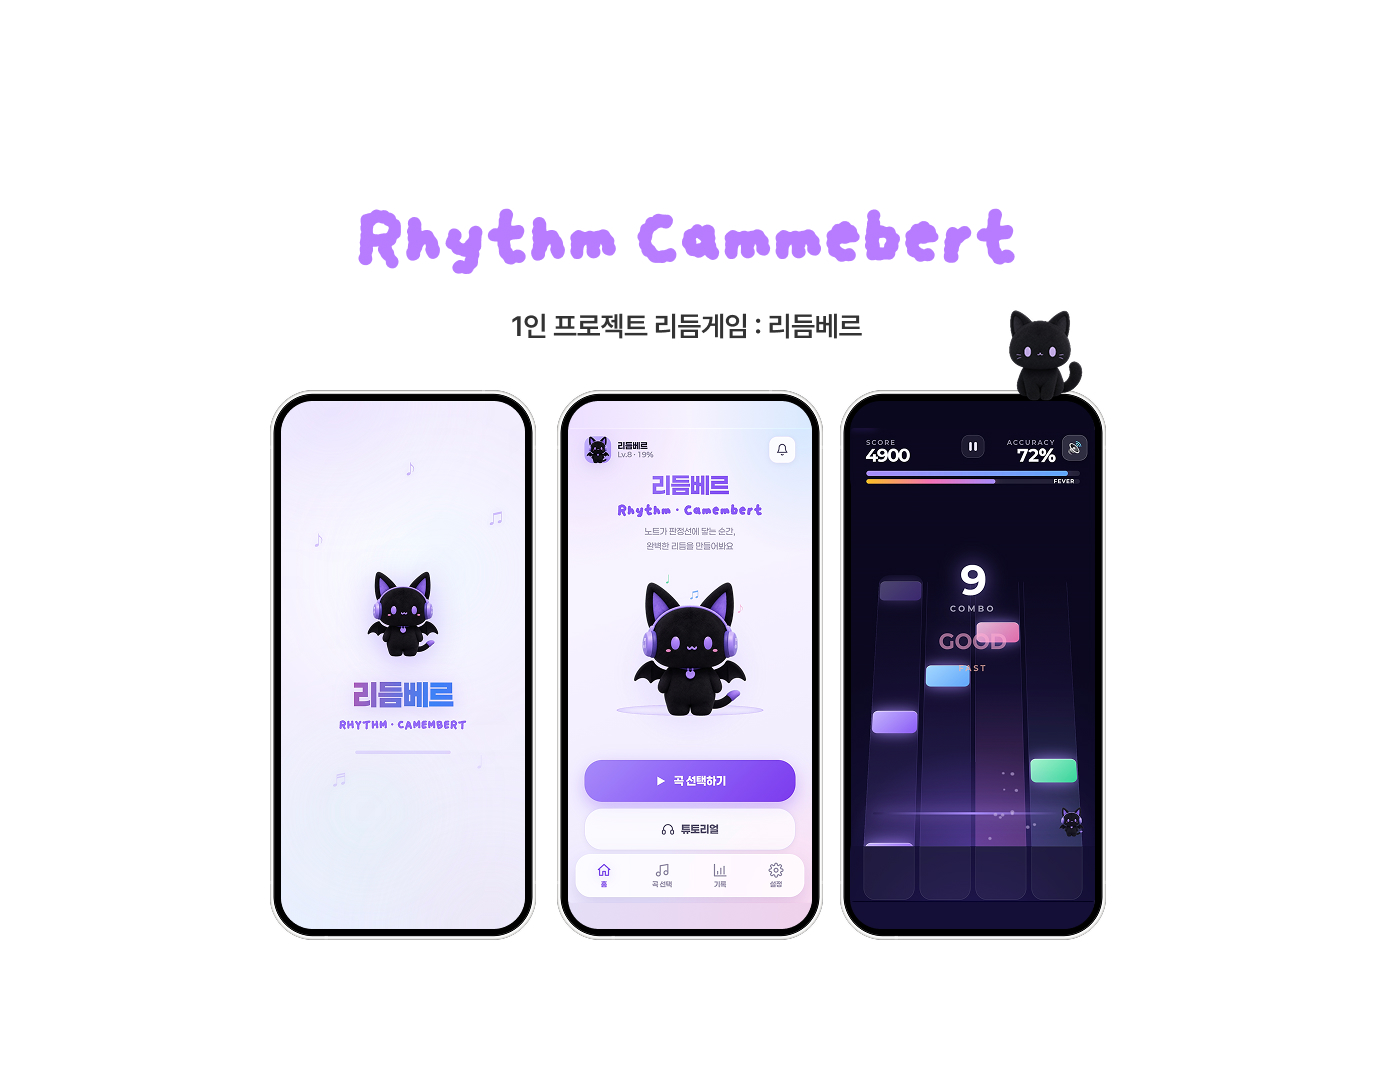
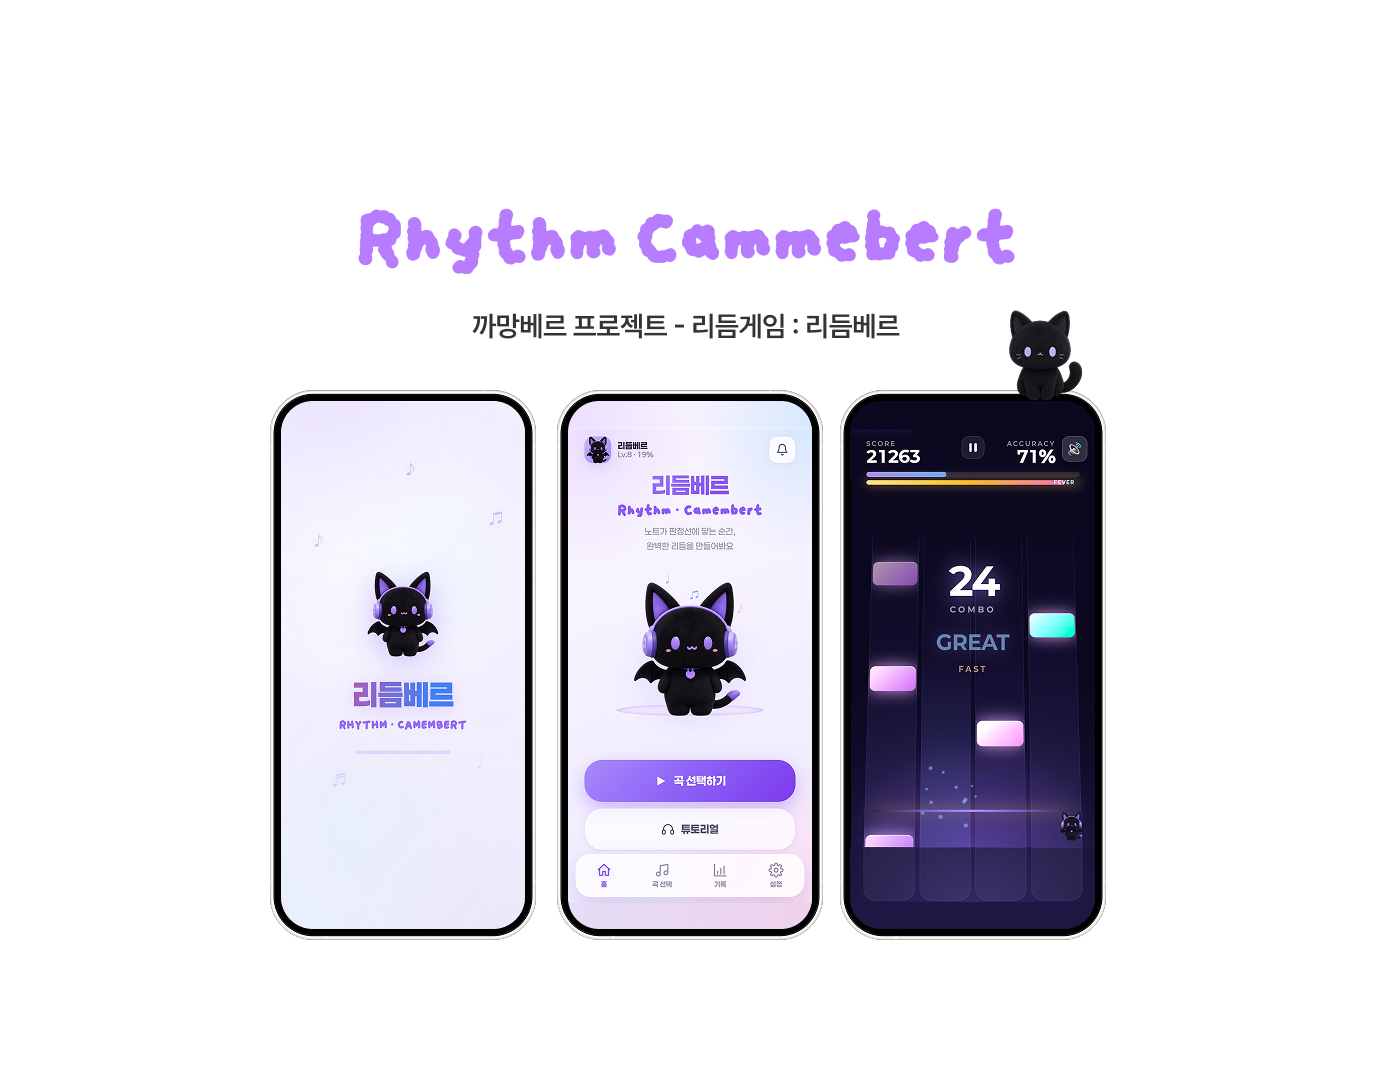
7.3 진실의 옥상 상세 정리(라이브 미리보기·소개·썸네일) 및 Tools 아이콘 보완
- 진실의 옥상: 커버 데모 라이브 미리보기, 포스터+프로젝트 소개 2단 배치, 그리드 썸네일 추가
- 리듬베르 Tools에 JavaScript 추가
- 마케팅 상세 Tools 텍스트 정리(빽다방: PowerPoint·Google Forms·Gather Town / 금산: PowerPoint·Google Forms)

diff --git a/index.html b/index.html
@@ -202,6 +202,16 @@
   .pd2-inner .ovh{ font-family:var(--disp); font-weight:700; font-size:12px; letter-spacing:0.16em; text-transform:uppercase; color:#9a9a92; margin-bottom:14px; }
   .pd2-inner .body-t{ font-size:clamp(15px,1.6vw,18px); line-height:1.75; color:#3c3c38; }
   .pd2-inner .pd-visit{ margin-top:24px; }
+  /* 진실의 옥상 — 포스터 + 정리 요약 2단 */
+  .pd-story{ display:grid; grid-template-columns:0.82fr 1.18fr; gap:clamp(30px,4vw,60px); margin-top:clamp(40px,5vw,70px); align-items:center; }
+  .pd-story .poster img{ width:100%; height:auto; border-radius:12px; display:block; }
+  .pd-story h4{ font-family:var(--disp); font-weight:700; font-size:12px; letter-spacing:.14em; text-transform:uppercase; color:#9a9a92; margin:24px 0 9px; }
+  .pd-story h4:first-child{ margin-top:0; }
+  .pd-story p{ font-size:15px; line-height:1.72; color:#3c3c38; margin:0 0 6px; }
+  .pd-story p b{ color:#1b1b1b; }
+  .pd-story .tags{ display:flex; flex-wrap:wrap; gap:7px; margin:8px 0 0; padding:0; list-style:none; }
+  .pd-story .tags li{ font-size:13px; color:#4a4a46; background:#f2f2ee; border-radius:14px; padding:5px 12px; }
+  @media(max-width:680px){ .pd-story{ grid-template-columns:1fr; } }
   @media(max-width:680px){ .pd2-top, .pd2-row2{ grid-template-columns:1fr; align-items:start; } }
 
   /* project detail — EX3 long-scroll case study (use inside .pd2-inner) */
@@ -526,7 +536,7 @@
 
         <div class="pcard rise" data-cat="webapp" data-open="pd-mystar"><div class="imgph" data-l="My Star Calendar"><img src="assets/projects/My-Star-Calendar/mystar_Thumbnail.jpg" alt="마이 스타 캘린더 썸네일"><span class="solo-tag">1인 프로젝트</span><span class="feat-tag">FEATURED ↑</span></div><div class="pt">마이 스타 캘린더</div><div class="pc">WebApp · 운영 중인 서비스</div><div class="pdate"><span class="py">2026</span><span class="pd">03 중순 기획 · 06.06 개발 · 06.12 오픈베타</span></div></div>
         <div class="pcard rise" data-cat="webapp" data-open="pd-rhythm"><div class="imgph" data-l="RHYTHM CAMEMBERT"><img src="assets/projects/Rhythm-Camembert/Rhythm-Camembert_Thumbnail.jpg" alt="리듬베르 썸네일"><span class="solo-tag">1인 프로젝트</span></div><div class="pt">리듬베르</div><div class="pc">WebApp · 게임</div><div class="pdate"><span class="py">2026</span><span class="pd">06.18 기획·개발 · 07.01 오픈베타</span></div></div>
-        <div class="pcard rise" data-cat="webapp" data-open="pd-truth"><div class="imgph" data-l="진실의 옥상"><span class="team-tag">TEAM</span></div><div class="pt">진실의 옥상</div><div class="pc">WebApp · 채팅 커뮤니티</div><div class="pdate"><span class="py">2026</span><span class="pd">진행 중</span></div></div>
+        <div class="pcard rise" data-cat="webapp" data-open="pd-truth"><div class="imgph" data-l="진실의 옥상"><img src="assets/projects/Truth-Rooftop/Truth-Rooftop_Thumbnail.jpg" alt="진실의 옥상 썸네일"><span class="team-tag">TEAM</span></div><div class="pt">진실의 옥상</div><div class="pc">WebApp · 채팅 커뮤니티</div><div class="pdate"><span class="py">2026</span><span class="pd">진행 중</span></div></div>
         <div class="pcard rise" data-cat="team" data-open="pd-khan"><div class="imgph" data-l="KHAN ACADEMY"><img src="assets/projects/Khan_Academy/Khan_Academy_Thumbnail.jpg" alt="칸 아카데미 리디자인 썸네일"><span class="team-tag">TEAM</span></div><div class="pt">칸 아카데미</div><div class="pc">Web · 리디자인</div><div class="pdate"><span class="py">2026</span><span class="pd">03.30 – 04.03</span></div></div>
         <div class="pcard rise" data-cat="team" data-open="pd-holo"><div class="imgph" data-l="HOLO"><img src="assets/projects/HOLO/HOLO_Thumbnail.jpg" alt="HOLO 썸네일"><span class="team-tag">TEAM</span><span class="feat-tag">FEATURED ↑</span></div><div class="pt">HOLO</div><div class="pc">WebApp · 제작</div><div class="pdate"><span class="py">2026</span><span class="pd">04.21(예상) – 05.22 · 클로즈드 베타</span></div></div>
         <div class="pcard rise" data-cat="team" data-open="pd-sangsang"><div class="imgph" data-l="상상의 문"><img src="assets/projects/sangsang_door/sangsang_door_Thumbnail.jpg" alt="상상의 문 리디자인 썸네일"><span class="team-tag">TEAM</span></div><div class="pt">상상의 문</div><div class="pc">Web · 리디자인</div><div class="pdate"><span class="py">2026</span><span class="pd">05.29 – 06.08(예상) · 06.23 발표</span></div></div>
@@ -1063,7 +1073,7 @@
             <div><span>Role</span>1인 · 기획·개발</div>
             <div><span>Type</span>WebApp · 게임</div>
             <div><span>Year</span>2026.06.18 기획·개발 · 07.01 오픈베타</div>
-            <div><span>Tools</span><span class="pd2-tools"><img src="assets/icons/chatgpt.svg" alt="ChatGPT"><img src="assets/icons/codex.svg" alt="Codex"><img src="https://cdn.simpleicons.org/claude/D97757" alt="Claude"><img src="https://cdn.jsdelivr.net/gh/devicons/devicon/icons/html5/html5-original.svg" alt="HTML5"></span></div>
+            <div><span>Tools</span><span class="pd2-tools"><img src="assets/icons/chatgpt.svg" alt="ChatGPT"><img src="assets/icons/codex.svg" alt="Codex"><img src="https://cdn.simpleicons.org/claude/D97757" alt="Claude"><img src="https://cdn.jsdelivr.net/gh/devicons/devicon/icons/html5/html5-original.svg" alt="HTML5"><img src="https://cdn.jsdelivr.net/gh/devicons/devicon/icons/javascript/javascript-original.svg" alt="JavaScript"></span></div>
           </div>
           <a class="pd-visit" href="https://jys010623-cmd.github.io/Rhythm-Camembert/rhythm-game.html" target="_blank" rel="noopener">플레이하기 <span class="ar">→</span></a>
         </div>
@@ -1091,11 +1101,42 @@
           </div>
           <a class="pd-visit" href="https://zipdooly.github.io/Truth-Rooftop/Demo/Truth-of-Rooftop.html" target="_blank" rel="noopener">데모 보기 <span class="ar">→</span></a>
         </div>
-        <div class="imgph pd2-cover" data-l="진실의 옥상 — COVER 16:10"></div>
+        <div class="imgph pd2-cover site-preview"><iframe src="https://zipdooly.github.io/Truth-Rooftop/Demo/Truth-of-Rooftop.html" title="진실의 옥상 데모 미리보기" scrolling="no" loading="lazy" tabindex="-1" aria-hidden="true"></iframe><a class="sp-open" href="https://zipdooly.github.io/Truth-Rooftop/Demo/Truth-of-Rooftop.html" target="_blank" rel="noopener"><span>데모 보기 →</span></a></div>
       </div>
       <div class="pd2-row2">
         <div><div class="ovh">Overview</div><p class="body-t">팀으로 제작 중인 웹앱 ‘진실의 옥상’입니다.</p></div>
         <div><div class="ovh">Solution</div><p class="body-t">현재 기획·디자인·개발을 진행 중이며, 완성되는 대로 내용을 업데이트할 예정입니다.</p></div>
+      </div>
+      <div class="pd-story">
+        <div class="poster"><img src="assets/projects/Truth-Rooftop/concept1.png" alt="진실의 옥상 컨셉 이미지"></div>
+        <div class="summary">
+          <h4>프로젝트 개요</h4>
+          <p>친구와 대화하다가 특정 장소로 초대해, 그 장소만의 분위기 속에서 이야기를 나누는 <b>장소 기반 메신저</b>입니다. 일반 채팅과 별개로 장소마다 다른 연출을 제공해, 친구끼리 장난스럽게 놀거나 평소와 다른 대화를 나누는 공간을 만드는 것이 목적입니다.</p>
+
+          <h4>한 줄 소개</h4>
+          <p>“야, 잠깐 옥상으로 올라올래?” — 친구들과 특별한 장소에서 만나는 감성 장소형 메신저.</p>
+
+          <h4>핵심 컨셉</h4>
+          <p><b>① 기본 채팅</b> · 친구 추가, 그룹채팅, DM, 프로필, 이모티콘 등 일반 메신저 기능.</p>
+          <p><b>② 장소 초대</b> · 채팅 중 친구에게 초대장을 보내면 상대가 ‘수락’ 또는 ‘회피’를 선택. (옥상·편의점·공원 벤치·PC방·카페·버스정류장)</p>
+          <p><b>③ 회피 시스템</b> · 단순 무시가 아니라 캐릭터가 ‘회피 행동’을 합니다. 예) 옥상은 천장으로 피신, 편의점은 냉장고 뒤에 숨기, 버스정류장은 버스 타고 사라지기.</p>
+
+          <h4>장소</h4>
+          <p>🌙 <b>옥상</b> — 밤하늘·야경 속 가장 특별한 공간, 진솔한 대화</p>
+          <p>🏪 <b>편의점 앞</b> — 컵라면 먹으며 수다·장난·아무말</p>
+          <p>🌳 <b>공원 벤치</b> — 조용한 고민상담·근황토크</p>
+          <p>🚏 <b>버스정류장</b> — 3~5분 짧은 대화, 스쳐가는 인연</p>
+          <p>🎮 <b>PC방</b> — 게임 모집·랭크 이야기 · ☕ <b>카페</b> — 잔잔한 1:1 대화</p>
+
+          <h4>입장 방식 · 캐릭터</h4>
+          <p>초대 코드가 있어야 입장하는 비밀 아지트 방식(예: <b>ROOM-YACHA-001</b>). 프로필 대신 <b>캐릭터</b>가 중심이며, 장소마다 난간 기대기·컵라면 먹기·키보드 치기 같은 행동 모션을 합니다.</p>
+
+          <h4>특별 채팅방</h4>
+          <ul class="tags"><li>5분 옥상</li><li>10분 편의점</li><li>30분 PC방</li></ul>
+
+          <h4>디자인 방향</h4>
+          <p>메인 네이비·다크블루·보라 + 포인트 노을 주황·노란 조명. 2D 캐릭터, 감성 일러스트, 밤의 도시 야경 무드.</p>
+        </div>
       </div>
     </div>
   </div>